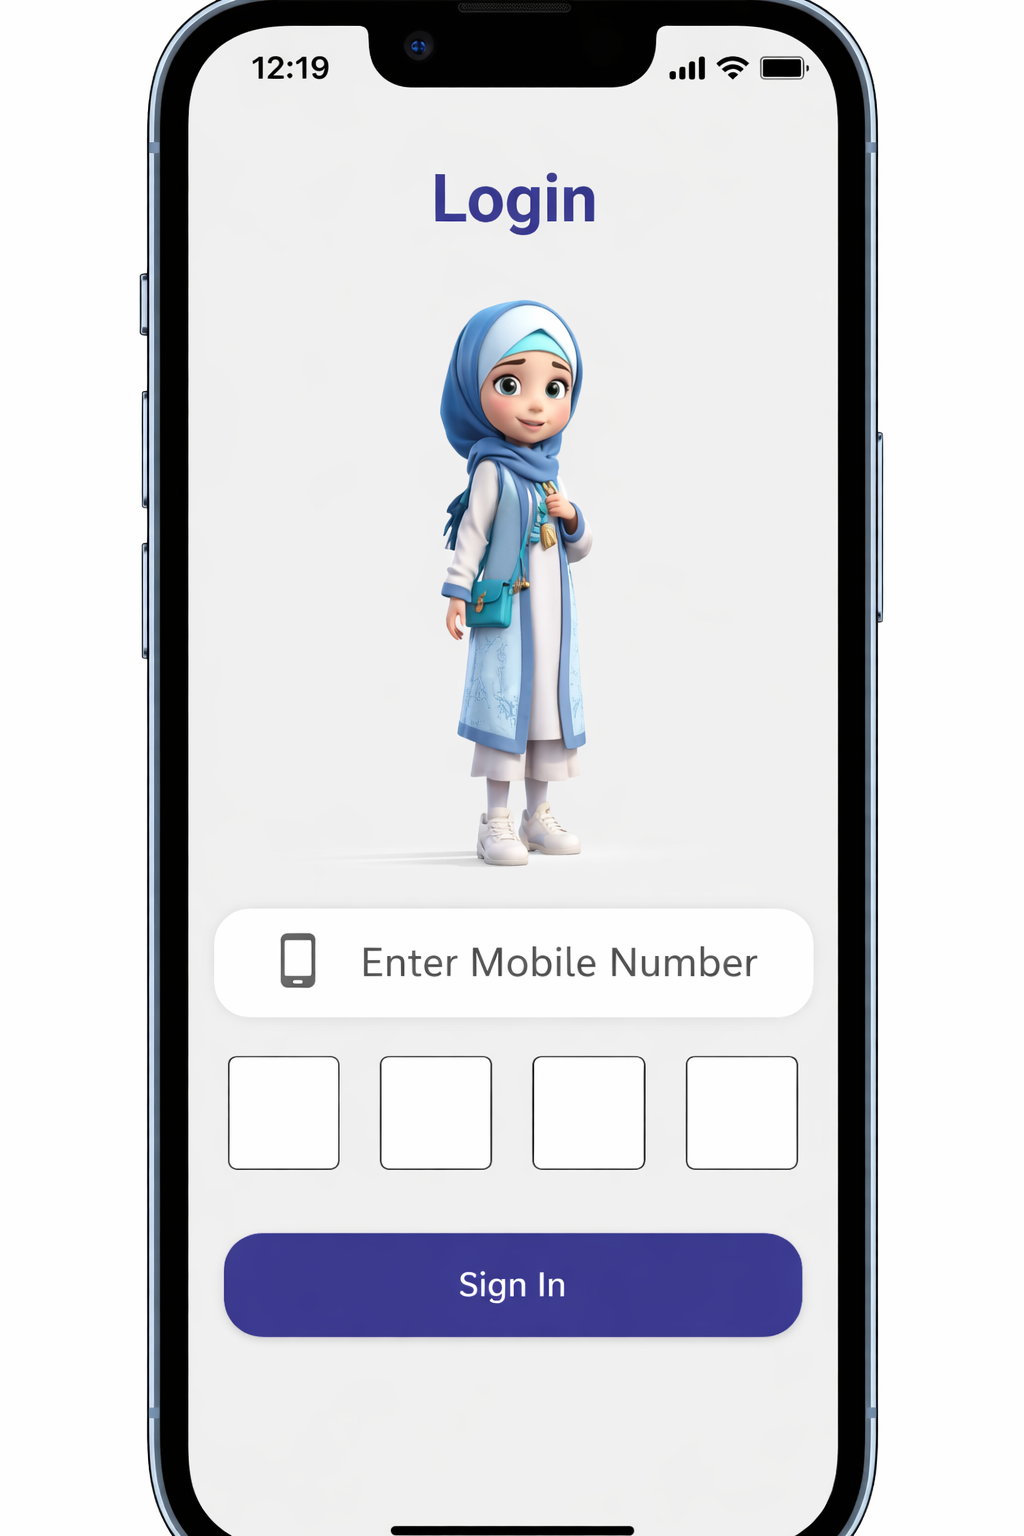
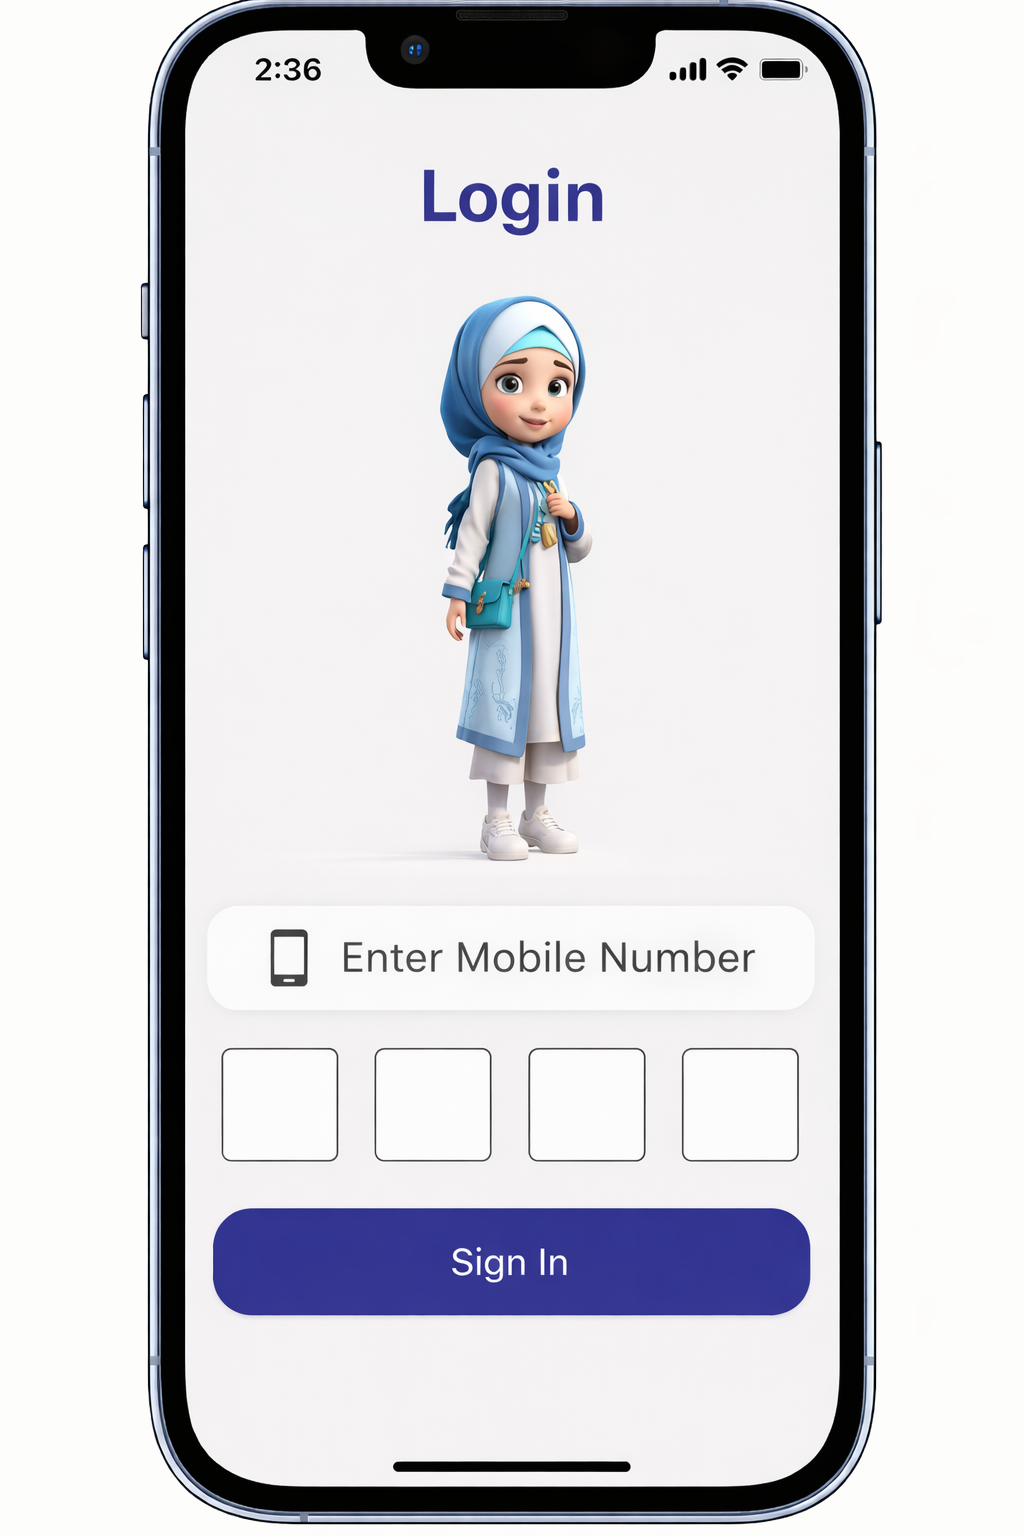
first commit

diff --git a/src/components/StudyGallery.js b/src/components/StudyGallery.js
@@ -4,27 +4,38 @@ import mathsImg from "../accets/gallery/maths.png";
 import uploadImg from "../accets/gallery/upload.png";
 import profileImg from "../accets/gallery/profile.png";
 
-const ImageCard = ({ src }) => (
-  <div
-    className="w-full max-w-[360px]
-               aspect-[9/19]
-               bg-gray-50
-               rounded-xl overflow-hidden
-               shadow-sm hover:shadow-xl
-               transition-all duration-300"
-  >
-    <img
-      src={src}
-      alt="App screen"
-      className="w-full h-full object-contain"
-    />
-  </div>
-);
+/* Reusable image card */
+const ImageCard = ({ src }) => {
+  return (
+    <div
+      className="
+        w-full
+        sm:w-[48%]
+        lg:w-[30%]
+        aspect-[9/19]
+        bg-gray-50
+        rounded-xl
+        overflow-hidden
+        shadow-sm
+        hover:shadow-xl
+        transition-all duration-300
+      "
+    >
+      <img
+        src={src}
+        alt="App screen"
+        className="w-full h-full object-contain"
+        loading="lazy"
+      />
+    </div>
+  );
+};
 
 export default function StudyGallery() {
   return (
     <section className="py-16 bg-white">
       <div className="max-w-7xl mx-auto px-6">
+        {/* Heading */}
         <h2 className="text-3xl font-bold text-center mb-4">
           Our Learning Environment
         </h2>
@@ -34,31 +45,32 @@ export default function StudyGallery() {
           Nursery to Class V students.
         </p>
 
-        {/* ROW 1 — 3 images */}
-        <div className="flex flex-wrap justify-center gap-8 mb-8">
-          {[loginImg, workspaceImg, mathsImg].map((src, i) => (
-            <ImageCard key={i} src={src} />
-          ))}
+        {/* ROW 1 — Login, Workspace, Maths */}
+        <div className="flex flex-wrap justify-center gap-8 mb-10">
+          <ImageCard src={loginImg} />
+          <ImageCard src={workspaceImg} />
+          <ImageCard src={mathsImg} />
         </div>
 
-        {/* ROW 2 — 2 images CENTERED, SAME WIDTH */}
-        <div className="flex justify-center gap-8">
-          {[uploadImg, profileImg].map((src, i) => (
-            <ImageCard key={i} src={src} />
-          ))}
+        {/* ROW 2 — Upload, Profile (centered, same width) */}
+        <div className="flex flex-wrap justify-center gap-8">
+          <ImageCard src={uploadImg} />
+          <ImageCard src={profileImg} />
         </div>
 
         {/* Download CTA */}
         <div className="mt-16 flex justify-center">
           <a
             href="#"
-            className="inline-flex items-center gap-3
-                       bg-green-600 text-white
-                       px-10 py-4 rounded-xl
-                       font-semibold text-lg
-                       shadow-md
-                       hover:bg-green-700 hover:shadow-xl
-                       transition"
+            className="
+              inline-flex items-center gap-3
+              bg-green-600 text-white
+              px-10 py-4 rounded-xl
+              font-semibold text-lg
+              shadow-md
+              hover:bg-green-700 hover:shadow-xl
+              transition
+            "
           >
             📲 Download Our App
           </a>
@@ -67,5 +79,3 @@ export default function StudyGallery() {
     </section>
   );
 }
-
-

diff --git a/src/components/ExploreCategories.js b/src/components/ExploreCategories.js
@@ -1,41 +1,4 @@
 export default function ExploreCategories() {
-//  const categories = [
-//   {
-//     title: "Nursery",
-//     img: "https://images.unsplash.com/photo-1544717305-2782549b5136?auto=format&fit=crop&w=800&q=80",
-//   },
-//   {
-//     title: "LKG",
-//     img: "https://images.unsplash.com/photo-1588072432836-e10032774350?auto=format&fit=crop&w=800&q=80",
-//   },
-//   {
-//     title: "UKG",
-//     img: "https://images.unsplash.com/photo-1606312619070-d48b4c652a52?auto=format&fit=crop&w=800&q=80",
-//   },
-//   {
-//     title: "Class I",
-//     img: "https://images.unsplash.com/photo-1596495577886-d920f1fb7238?auto=format&fit=crop&w=800&q=80",
-//   },
-//   {
-//     title: "Class II",
-//     img: "https://images.unsplash.com/photo-1529070538774-1843cb3265df?auto=format&fit=crop&w=800&q=80",
-//   },
-//   {
-//     title: "Class III",
-//     img: "https://images.unsplash.com/photo-1524995997946-a1c2e315a42f?auto=format&fit=crop&w=800&q=80",
-//   },
-//   {
-//     title: "Class IV",
-//     img: "https://images.unsplash.com/photo-1513258496099-48168024aec0?auto=format&fit=crop&w=800&q=80",
-//   },
-//   {
-//     title: "Class V",
-//     img: "https://images.unsplash.com/photo-1503676260728-1c00da094a0b?auto=format&fit=crop&w=800&q=80",
-//   },
-// ];
-
-
-
 
 const categories = [
   {
